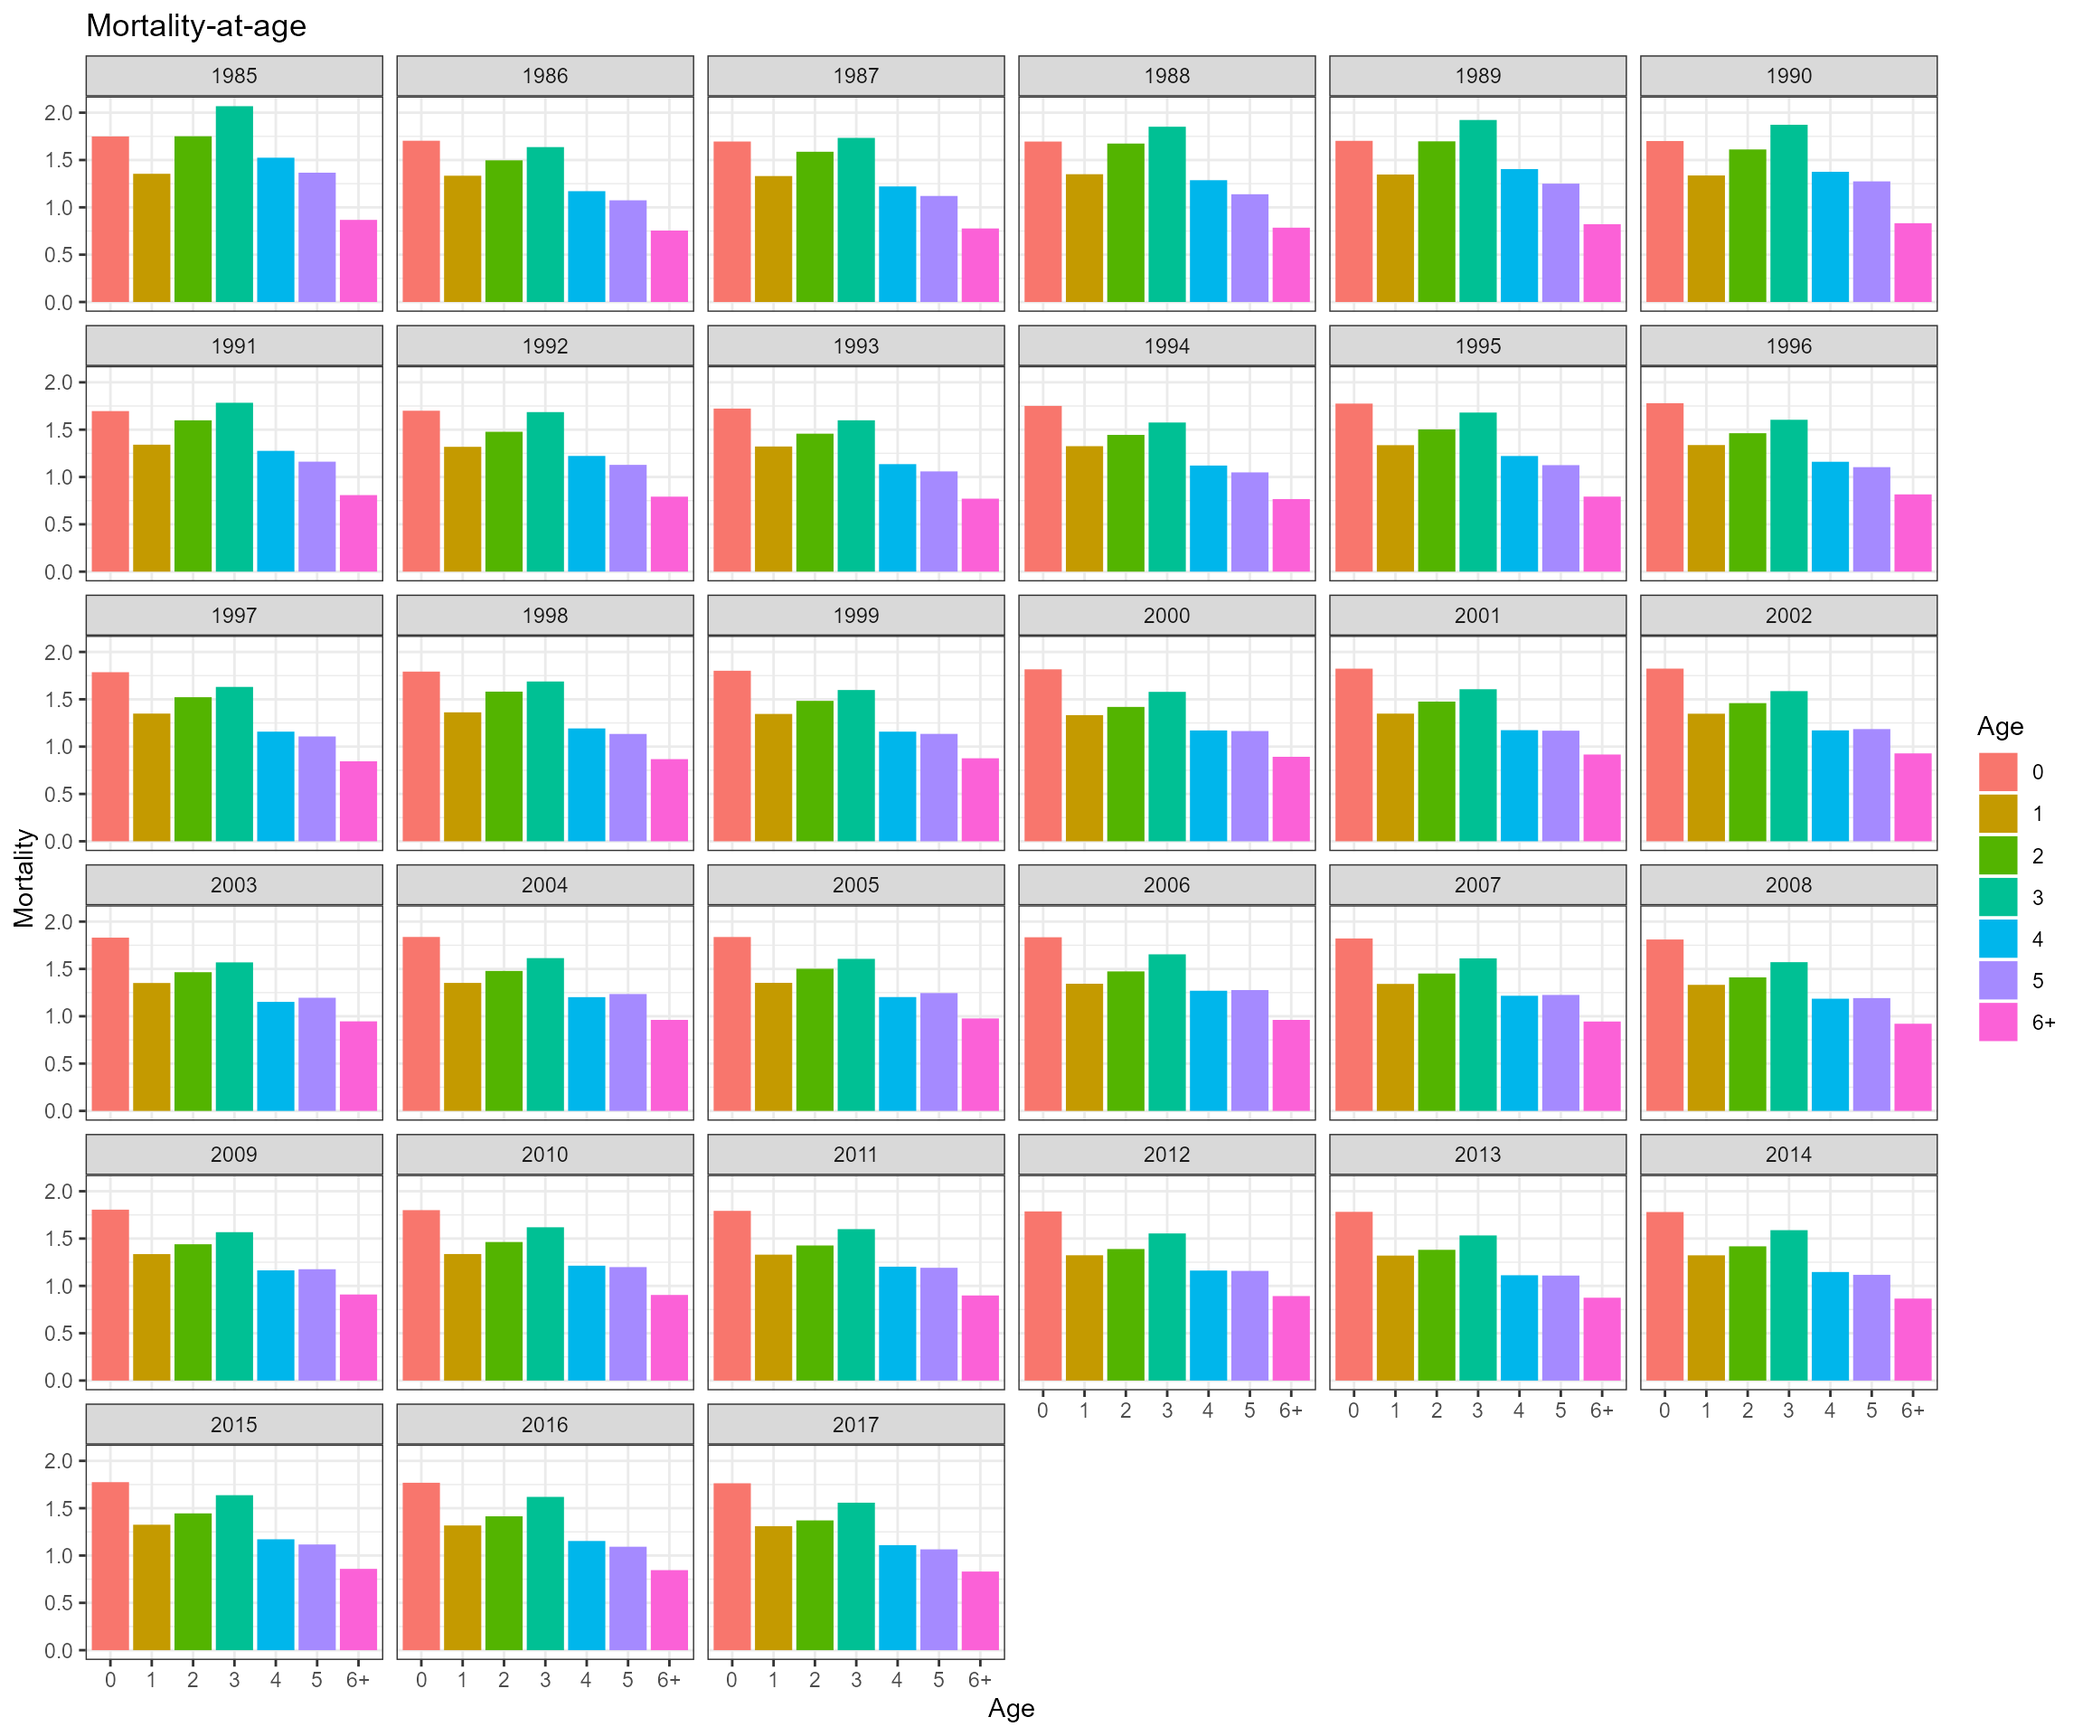
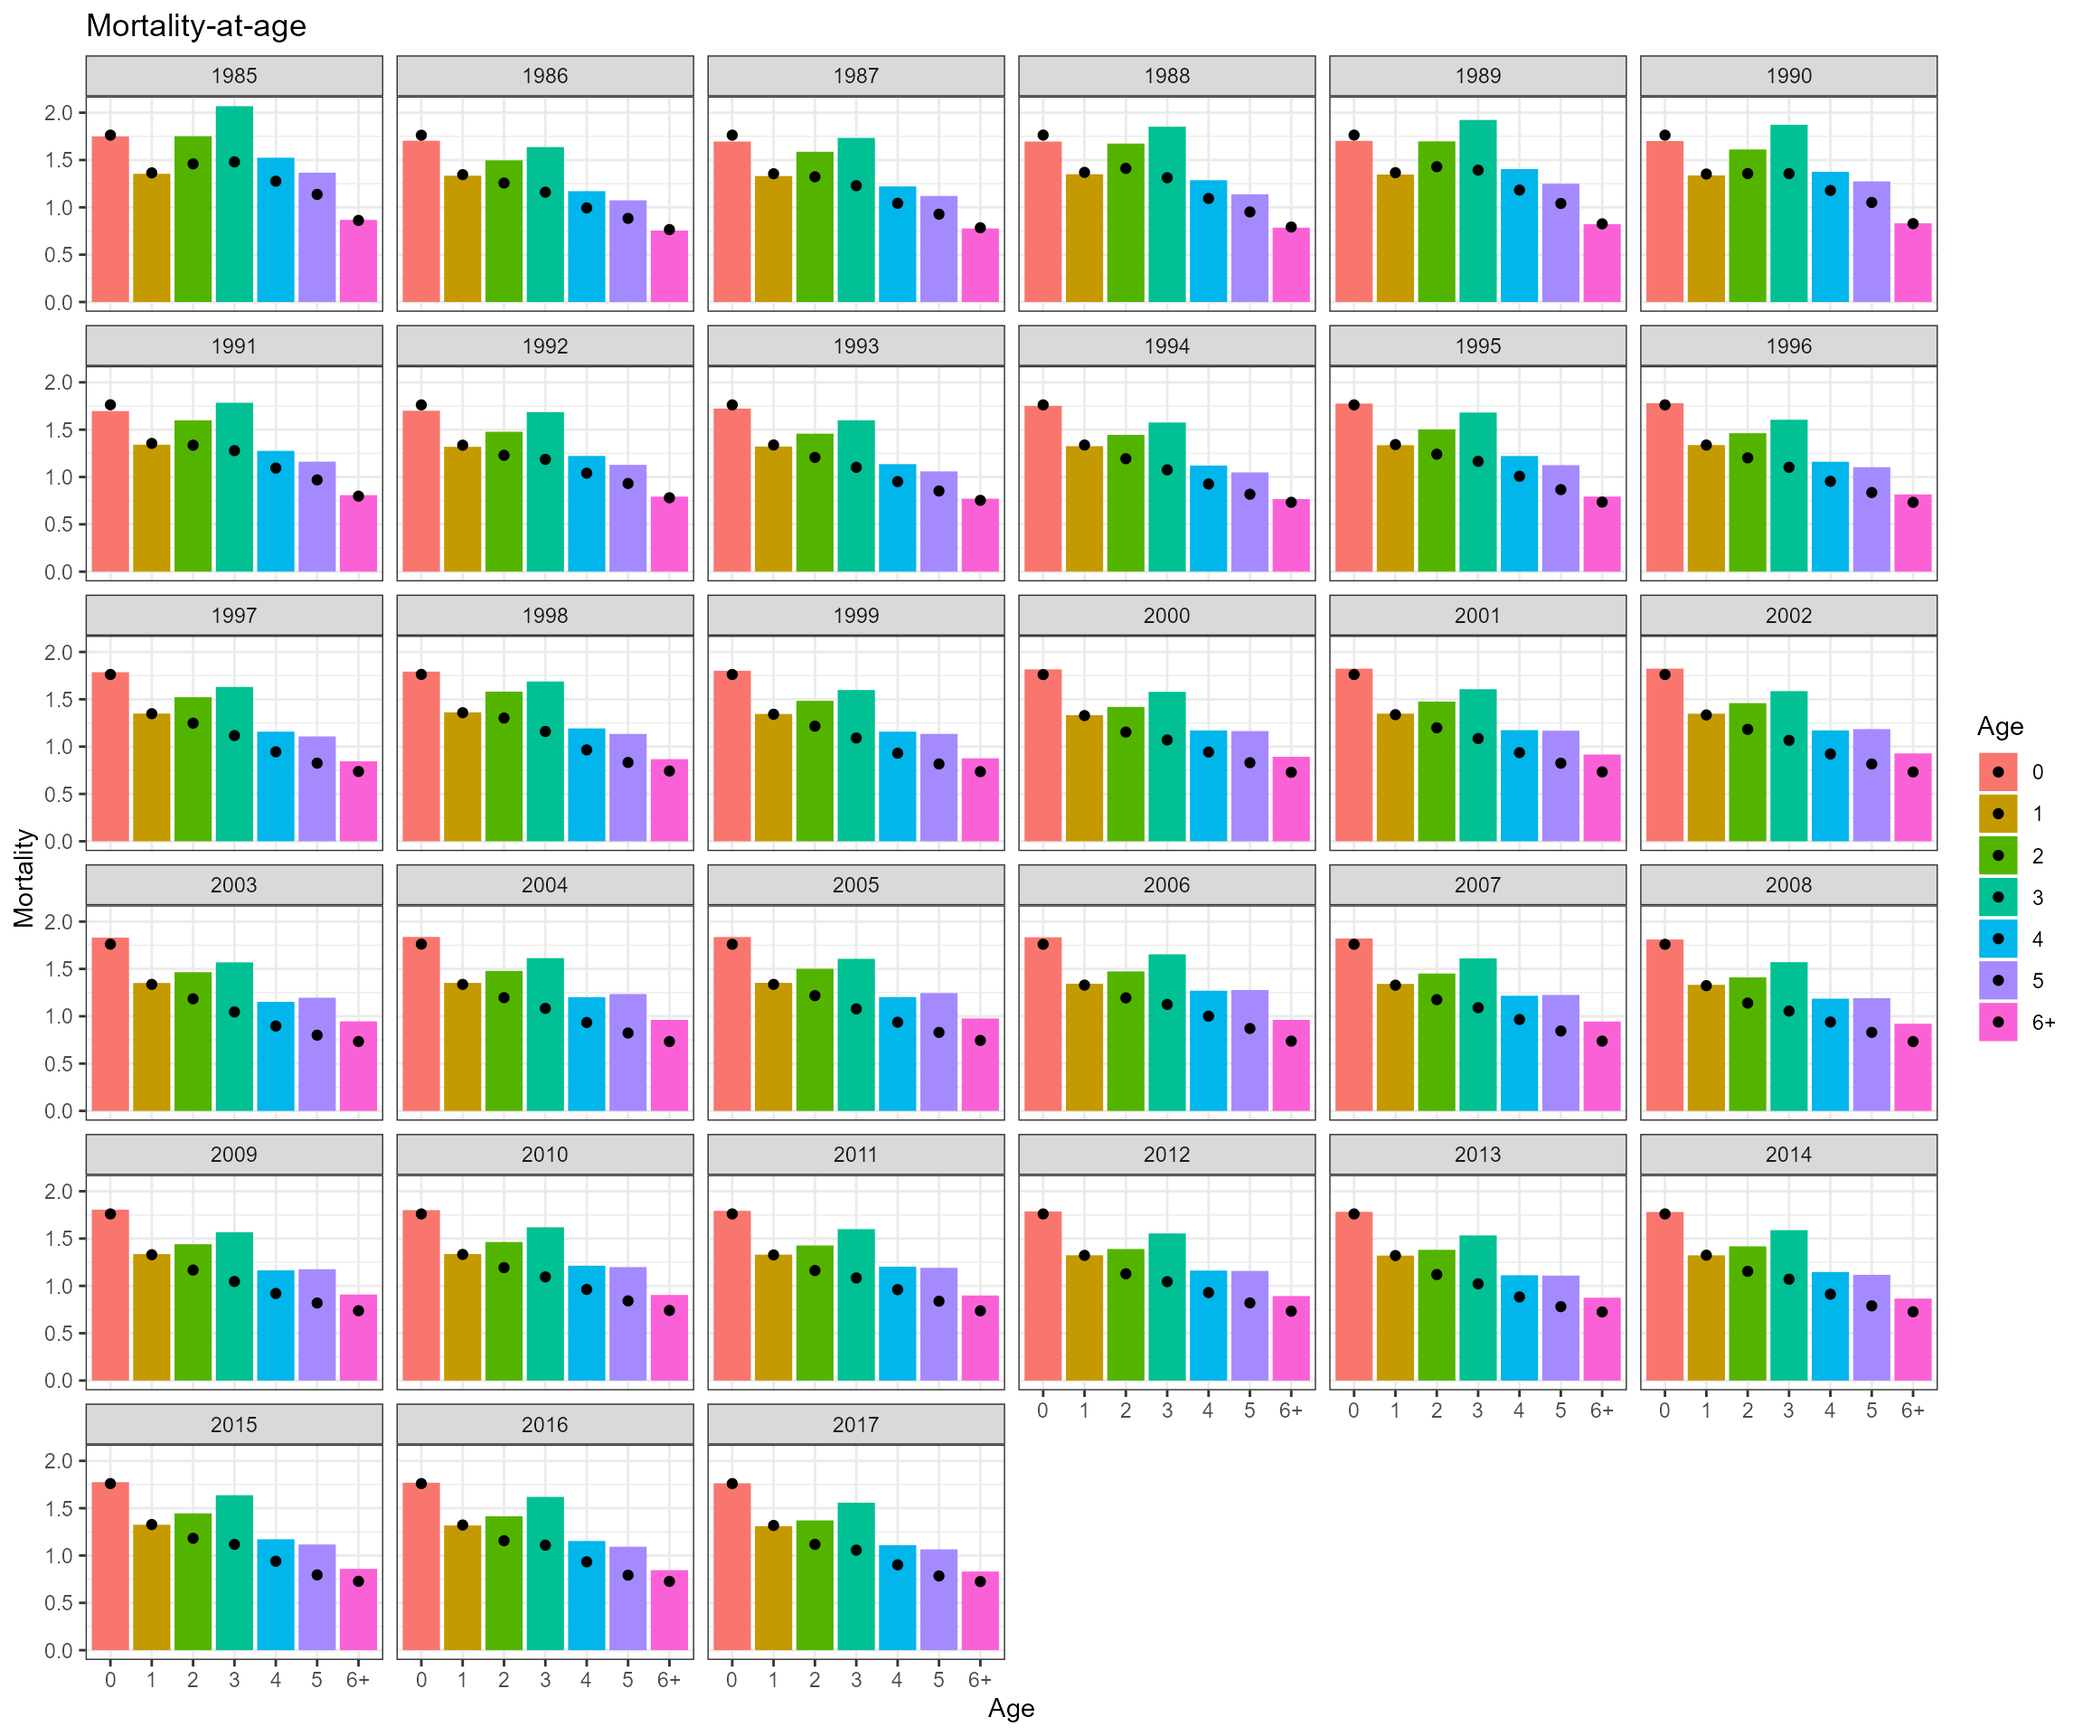
add BAM total mortality to figure

diff --git a/docs/articles/03_Ecosystem_model_restructuring.html b/docs/articles/03_Ecosystem_model_restructuring.html
@@ -150,7 +150,7 @@
 <h2 id="biomass-at-age-of-menhaden-like-species-over-years-1985---2017">Biomass-at-age of menhaden-like species over years (1985 - 2017)<a class="anchor" aria-label="anchor" href="#biomass-at-age-of-menhaden-like-species-over-years-1985---2017"></a>
 </h2>
 <p><img src="03_Ecosystem_model_restructuring_files/figure-html/unnamed-chunk-2-1.png" width="1152"></p>
-<p>The bars represents the outputs from EwE and the solid points represent the outputs from BAM stock assessment outputs.</p>
+<p>The bars represent the outputs from EwE and the solid points represent the outputs from BAM stock assessment outputs.</p>
 </div>
 <div class="section level2">
 <h2 id="mortality-at-age-of-menhaden-like-species-over-years-1985---2017">Mortality-at-age of menhaden-like species over years (1985 - 2017)<a class="anchor" aria-label="anchor" href="#mortality-at-age-of-menhaden-like-species-over-years-1985---2017"></a>
